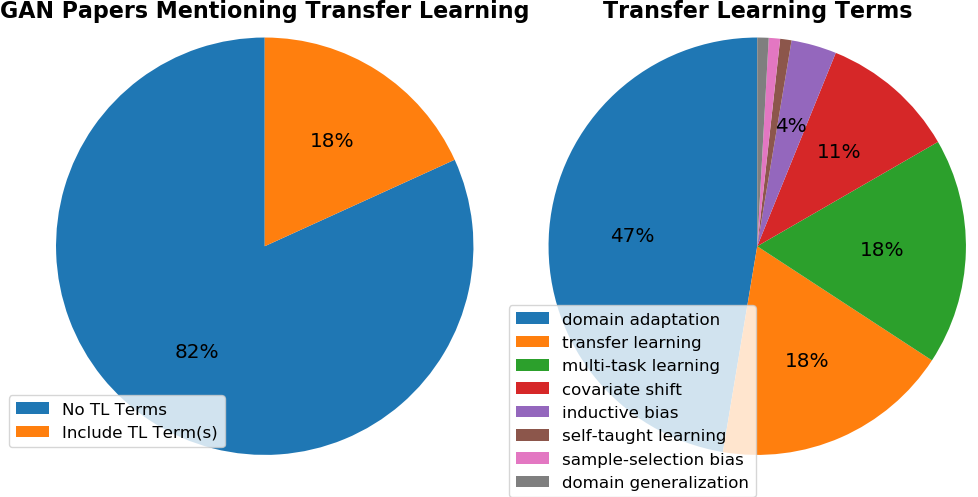
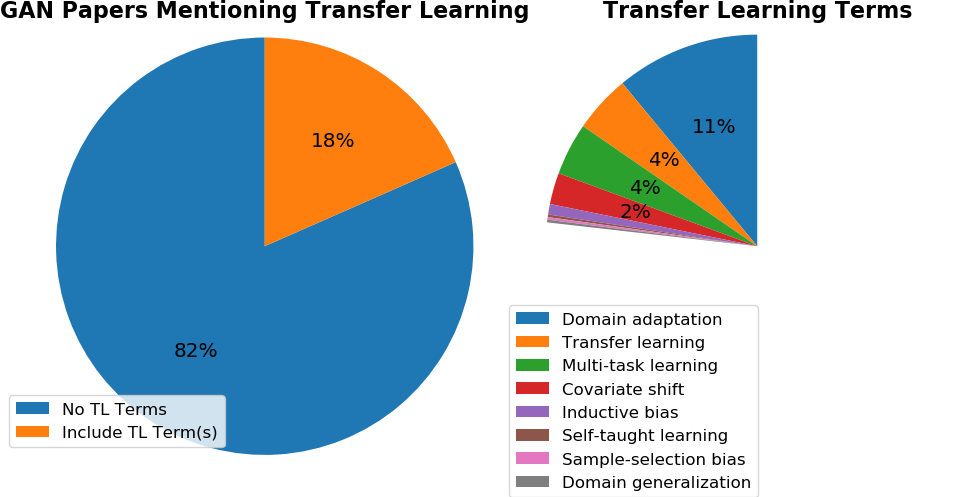
Pie was wrong so do bar chart, insensitive TL search
- Pie plot for TL terms added up to more than 100% since a single paper
   might have more than one of the terms. Changed to a bar plot.
 - Realized that it was case-sensitive searching for TL terms with
   pdfgrep. Changed to be case-insensitive, though this doesn't really
   affect the results much.

diff --git a/generate_chart.py b/generate_chart.py
@@ -1,8 +1,9 @@
 #!/usr/bin/env python3
 """
-From the pdfgrep output data, generate a pie chart
+From the pdfgrep output data, generate a chart
 """
 import os
+import numpy as np
 import pandas as pd
 import matplotlib.pyplot as plt
 from matplotlib.gridspec import GridSpec
@@ -10,9 +11,12 @@ from matplotlib.gridspec import GridSpec
 def replace(df, replacements):
     """
     If replacements={'s': 'r'} then replace all 's' with 'r' in dataframe df.
+
+    Note: case refers to case-sensitivity, which by default is False, i.e.
+    in the above example 'S' would also be replaced with 'r'.
     """
     for s, r in replacements.items():
-        df = df.str.replace(s, r)
+        df = df.str.lower().replace(s, r)
 
     return df
 
@@ -102,6 +106,67 @@ def pieCombined(fracs1, labels1, title1, fracs2, labels2, title2,
         fig.savefig(save_name+'.png', bbox_inches='tight', pad_inches=0)
         fig.savefig(save_name+'.pdf', bbox_inches='tight', pad_inches=0)
 
+def cap(s):
+    """
+    Capitalize only the first letter of a string
+    
+    s.capitalize() and s.title() make the non-first letters of words lowercase.
+    I don't want to change anything other than the first letter.
+    """
+    return s[0].upper() + s[1:]
+
+def remzero(num):
+    """
+    Remove zero at front of float
+    """
+    s = '%.1f' % num
+    s = s.replace(".00", ".0")
+    return s[1:] if s[0] == "0" else s
+
+def autolabel(ax, rects, yerr=None):
+    """
+    Attach a text label above each bar displaying its height
+    
+    From: https://matplotlib.org/examples/api/barchart_demo.html
+    """
+    for i, rect in enumerate(rects):
+        height = rect.get_height()
+        yerrh = 0
+        
+        if yerr:
+            yerrh = yerr[i]
+        
+        ax.text(rect.get_x() + rect.get_width()/2., 1.005*height + yerrh,
+                #remzero(height),
+                '%.1f' % height,
+                ha='center', va='bottom')
+
+def barplot(fracs, labels, save_name=None):
+    assert len(fracs) == len(labels)
+    colors = ["xkcd:orange", "xkcd:teal", "xkcd:darkgreen", "xkcd:orchid", "xkcd:blue", "xkcd:indigo"]
+    
+    fig, ax = plt.subplots(1,1,figsize=(8, 4))
+    rects = []
+    margin = 0.02
+    width = 1 - margin - 0.02
+
+    # Plot x values
+    i = 0 # We only have one set of bars
+    n = len(labels)
+    x = np.array(range(n), dtype=np.float)
+    rects.append(ax.bar(x + i*width + i*margin, fracs, width))
+    autolabel(ax, rects[-1])
+    ax.set_ylim([0,max(fracs)+1])
+        
+    plt.xticks(x, labels, rotation=40, fontsize=12)
+    #ax.set_xticks(x + width) # Offset if more than one set
+    plt.ylabel("%")
+    plt.title("Percent of GAN Papers Including Terms")
+
+    if save_name is not None:
+        plt.savefig(save_name+".png", bbox_inches='tight')
+        plt.savefig(save_name+".pdf", bbox_inches='tight')
+
 if __name__ == '__main__':
     pandasSetPrint()
 
@@ -131,6 +196,10 @@ if __name__ == '__main__':
     #
     # Get GAN papers that also mention TL terms
     #
+    gan = df_gan['Filename'].unique()
+    tl = df_tl['Filename'].unique()
+    ganCount = len(gan)
+    tlCount = len(tl)
 
     # Pie chart of how many GAN papers include a mention of each of these terms
     both = df_tl.loc[df_tl['Filename'].isin(df_gan['Filename'])].drop_duplicates()
@@ -146,20 +215,18 @@ if __name__ == '__main__':
         for t in both[both['Filename']==p]['Term']:
             termCounts[t] += 1
 
-    fracs = [c/gantlCount for c in termCounts.values()]
+    fracs = [c/ganCount for c in termCounts.values()]
     labels = termCounts.keys()
+    labels = [cap(l) for l in labels]
     fracs, labels = zip(*sorted(zip(fracs, labels), reverse=True)) # Sort
     #pie(fracs, labels, "pie")
+    barplot([f*100 for f in fracs], labels, save_name="bar")
 
-    # Pie chart showing of the GAN papers how many include any of the TL terms
-    gan = df_gan['Filename'].unique()
-    tl = df_tl['Filename'].unique()
-    ganCount = len(gan)
-    tlCount = len(tl)
     print("GAN Papers:", ganCount)
     print("TL Papers:", tlCount)
     print("GAN & TL Papers:", gantlCount)
 
+    # Pie chart showing of the GAN papers how many include any of the TL terms
     includeTermsFracs = [(ganCount-gantlCount)/ganCount, gantlCount/ganCount]
     includeTermsLabels = ['No TL Terms', 'Include TL Term(s)']
     #pie(includeTermsFracs, includeTermsLabels, "pie_terms")

diff --git a/README.md b/README.md
@@ -11,10 +11,10 @@ in some way to transfer learning.
 
     ./grep_pdfs.sh
 
-Finally, make a pie chart about how many papers have overlap between GANs and
+Finally, make a chart about how many papers have overlap between GANs and
 various types of transfer learning.
 
-    ./generate_pie_chart.py
+    ./generate_chart.py
 
 Optionally, look through all the overlap papers.
 
@@ -25,8 +25,8 @@ Optionally, look through all the overlap papers.
 | **Topic**  | **Number of Papers** |
 |:-----------|:---------------------|
 | GAN        | 500                  |
-| TL         | 1,173                |
-| GAN & TL   | 91                   |
+| TL         | 1,210                |
+| GAN & TL   | 92                   |
 | *(Total)*  | 16,644 (25.3 GiB)    |
 
-[![Pie Chart](https://raw.githubusercontent.com/floft/all-the-papers/master/pie.png)](https://raw.githubusercontent.com/floft/all-the-papers/master/pie.png)
+[![Chart](https://raw.githubusercontent.com/floft/all-the-papers/master/bar.png)](https://raw.githubusercontent.com/floft/all-the-papers/master/bar.png)
